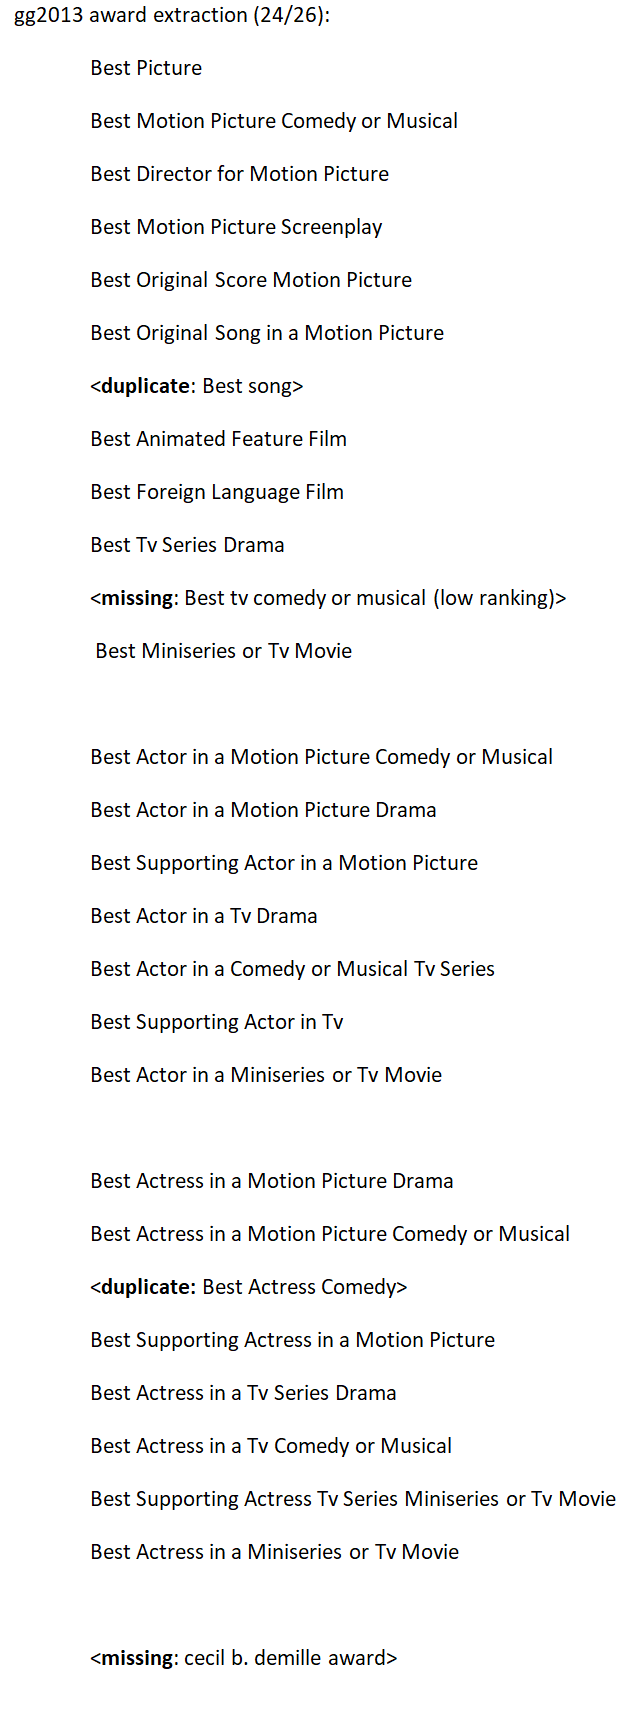
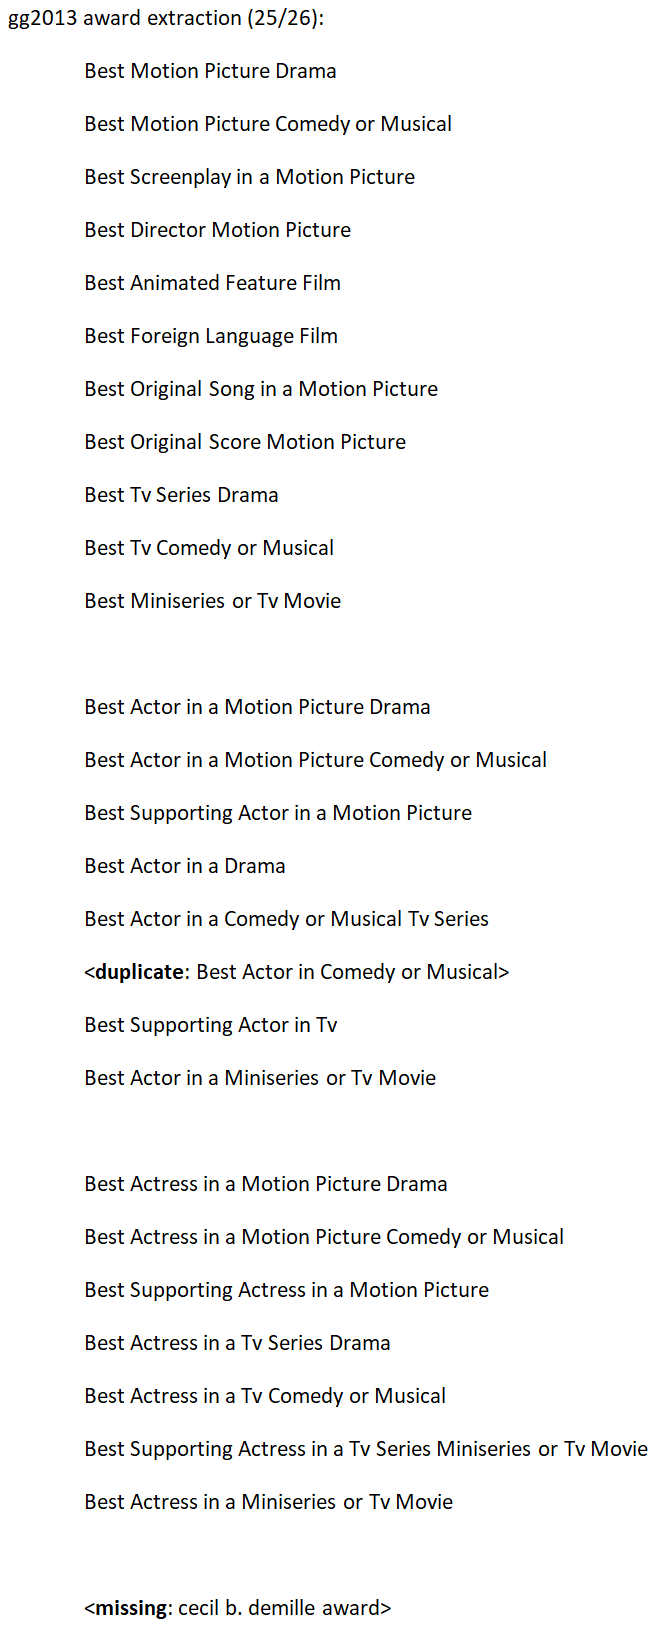
updated readme

Changed region(s): [[0.0, 0.0, 0.9688, 0.9375], [0.125, 0.9688, 0.5938, 1.0], [0.5625, 0.3438, 0.875, 0.375]]

diff --git a/README.md b/README.md
@@ -6,7 +6,7 @@
 
 The program can be run from the terminal and the relevant award information will be printed in a human-readable format. JSON conversion of the results is implemented but not used for the auto-grader. Additional API integration for the autograder is done in gg_api.py, and gg_api.pre-ceremony() and gg_api.main() are called from within autograder.py. The program is tested with Python 3.10. 
 
-The program retrieves the hosts accurately for both 2013 and 2015. The top 25 award titles extracted are returned to the autograder. They cover most of the awards, but the formatting and spelling may vary which makes it difficult to assign a completion score by the autograder in practice. 
+The program retrieves the hosts accurately for both 2013 and 2015. The top 26 award titles extracted are returned to the autograder. The 25 regular awards are extracted almost exactly for both years, with minor spelling differences particularly for gg2013 due to low data volume. No keyword apart from 'Best' is used in finding award names from text or in excluding any extracted candidates. Iterative steps to merge sublists after re-ranking are taken to remove partial award names without erroneously merging representations for different awards. The occurrence frequencies for sublists are also properly added to the superlists which produces an accurate ranking of award mentions in the dataset. The autograder reports 0.255 completeness for 2013 award extraction but the actual completeness should be 25/26 as is documented in the images of the program outputs (manually sorted for clarity) included in this repository.
 
 Hard-coded award names are then used to extract the winners, nominees and presenters for each award. The winners extraction accuracy is 100% in practice, minus the program's inability to discern abbreviations in names, such as Louis C.K.. Also, the best original song for gg2015 is returned as Glory, which is from Selma, but the correct answer is Selma.
 
